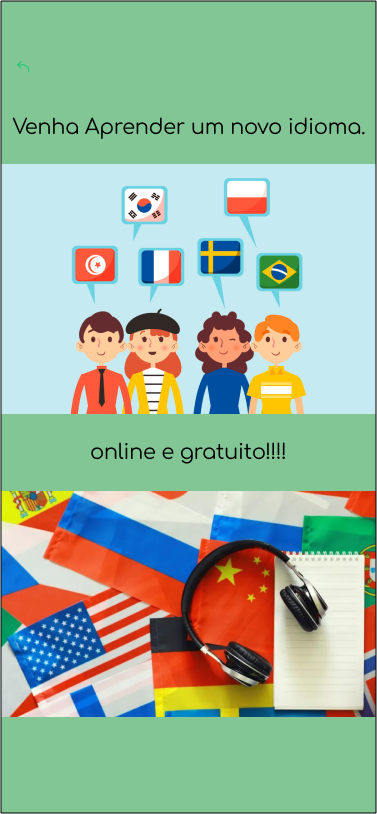
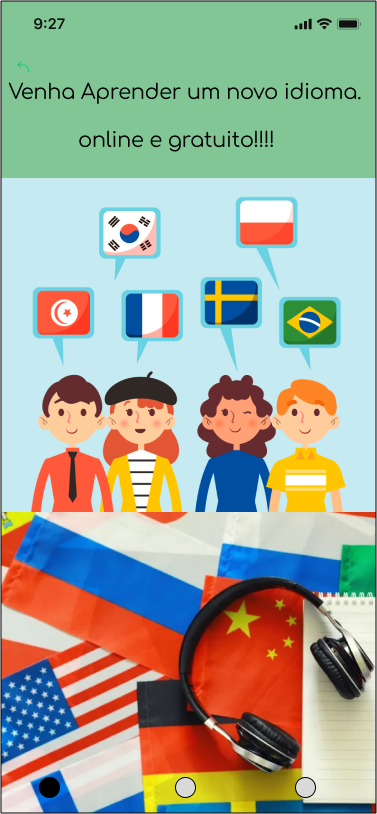
app

diff --git a/src/screens/slide2/index.tsx b/src/screens/slide2/index.tsx
@@ -1,13 +1,25 @@
 import { ImageBackground, View, Text ,StyleSheet} from "react-native"
 import React from 'react'
+const slide1 = () => {
+    return (
+        <view style={{ marginTop:60}}>
+            <text style={{ textAlign: "center"}}>oiiii</text>
+            </view>
+
+    );
+};
+export default slide1;
 
 export function slide2(){
     return(
-        <View style = {{ flex:1,backgroundColor:'blue'}}>
+        <View style = {{ flex:1 }}>
         <ImageBackground
+        
             source ={require('../../assets/img2.png')} 
             style ={styles.ImageBackground}
+            
             >
+                
         </ImageBackground>
         </View>
     )

diff --git a/src/screens/slide3/index.tsx b/src/screens/slide3/index.tsx
@@ -3,7 +3,7 @@ import React from 'react'
 
 export function slide3(){
     return(
-        <View style = {{ flex:1,backgroundColor:'blue'}}>
+        <View style = {{ flex:1}}>
         <ImageBackground
             source ={require('../../assets/img3.png')} 
             style ={styles.ImageBackground}
@@ -15,7 +15,7 @@ export function slide3(){
     const styles = StyleSheet.create({
         container: {
             flex: 1,
-            flexDirection: 'column'
+            flexDirection: 'column',
         },
         ImageBackground: {
             flex: 1,
